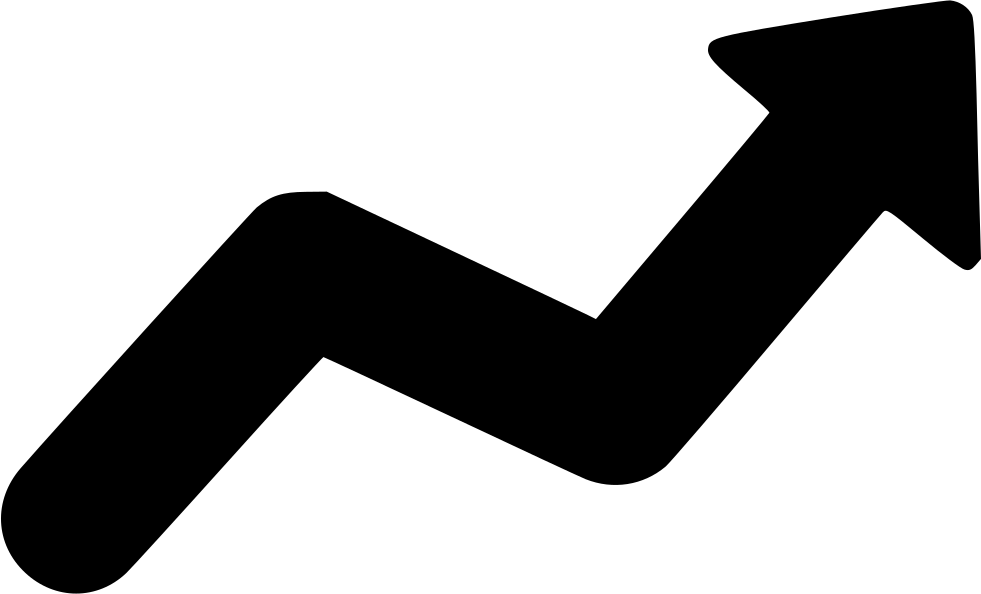
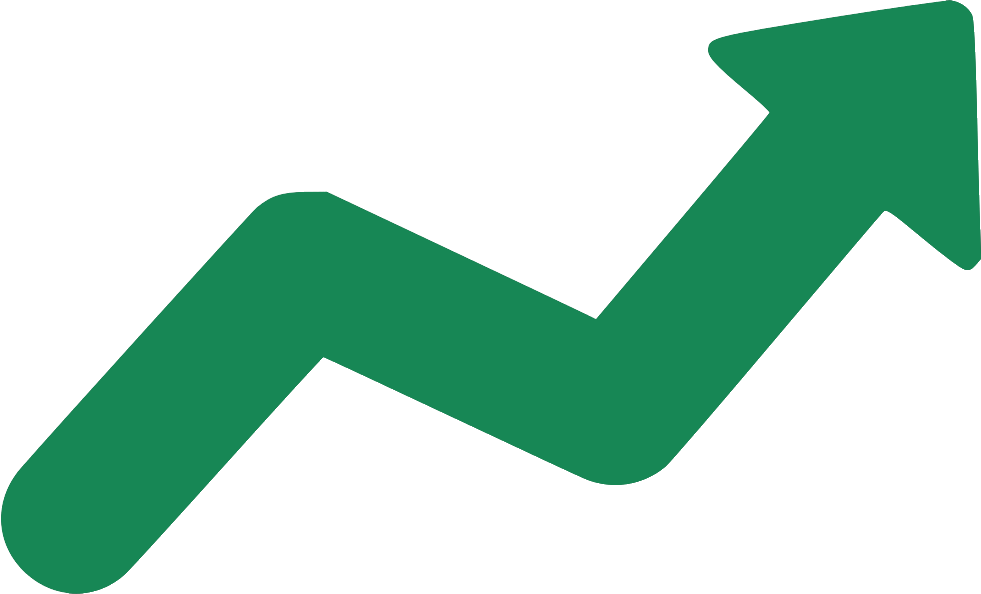
arrow to green

diff --git a/src/components/DashboardCard.jsx b/src/components/DashboardCard.jsx
@@ -37,7 +37,7 @@ function DashboardCard({ url, title, icon }) {
           </div>
           <div className="growth mb-3 d-flex">
             <img src={img} alt="graph-icon" className="pe-2" />
-            <span> 17%</span>
+            <span className="text-success"> 17%</span>
             <p className="ps-4"> Since last week </p>
           </div>
         </div>
